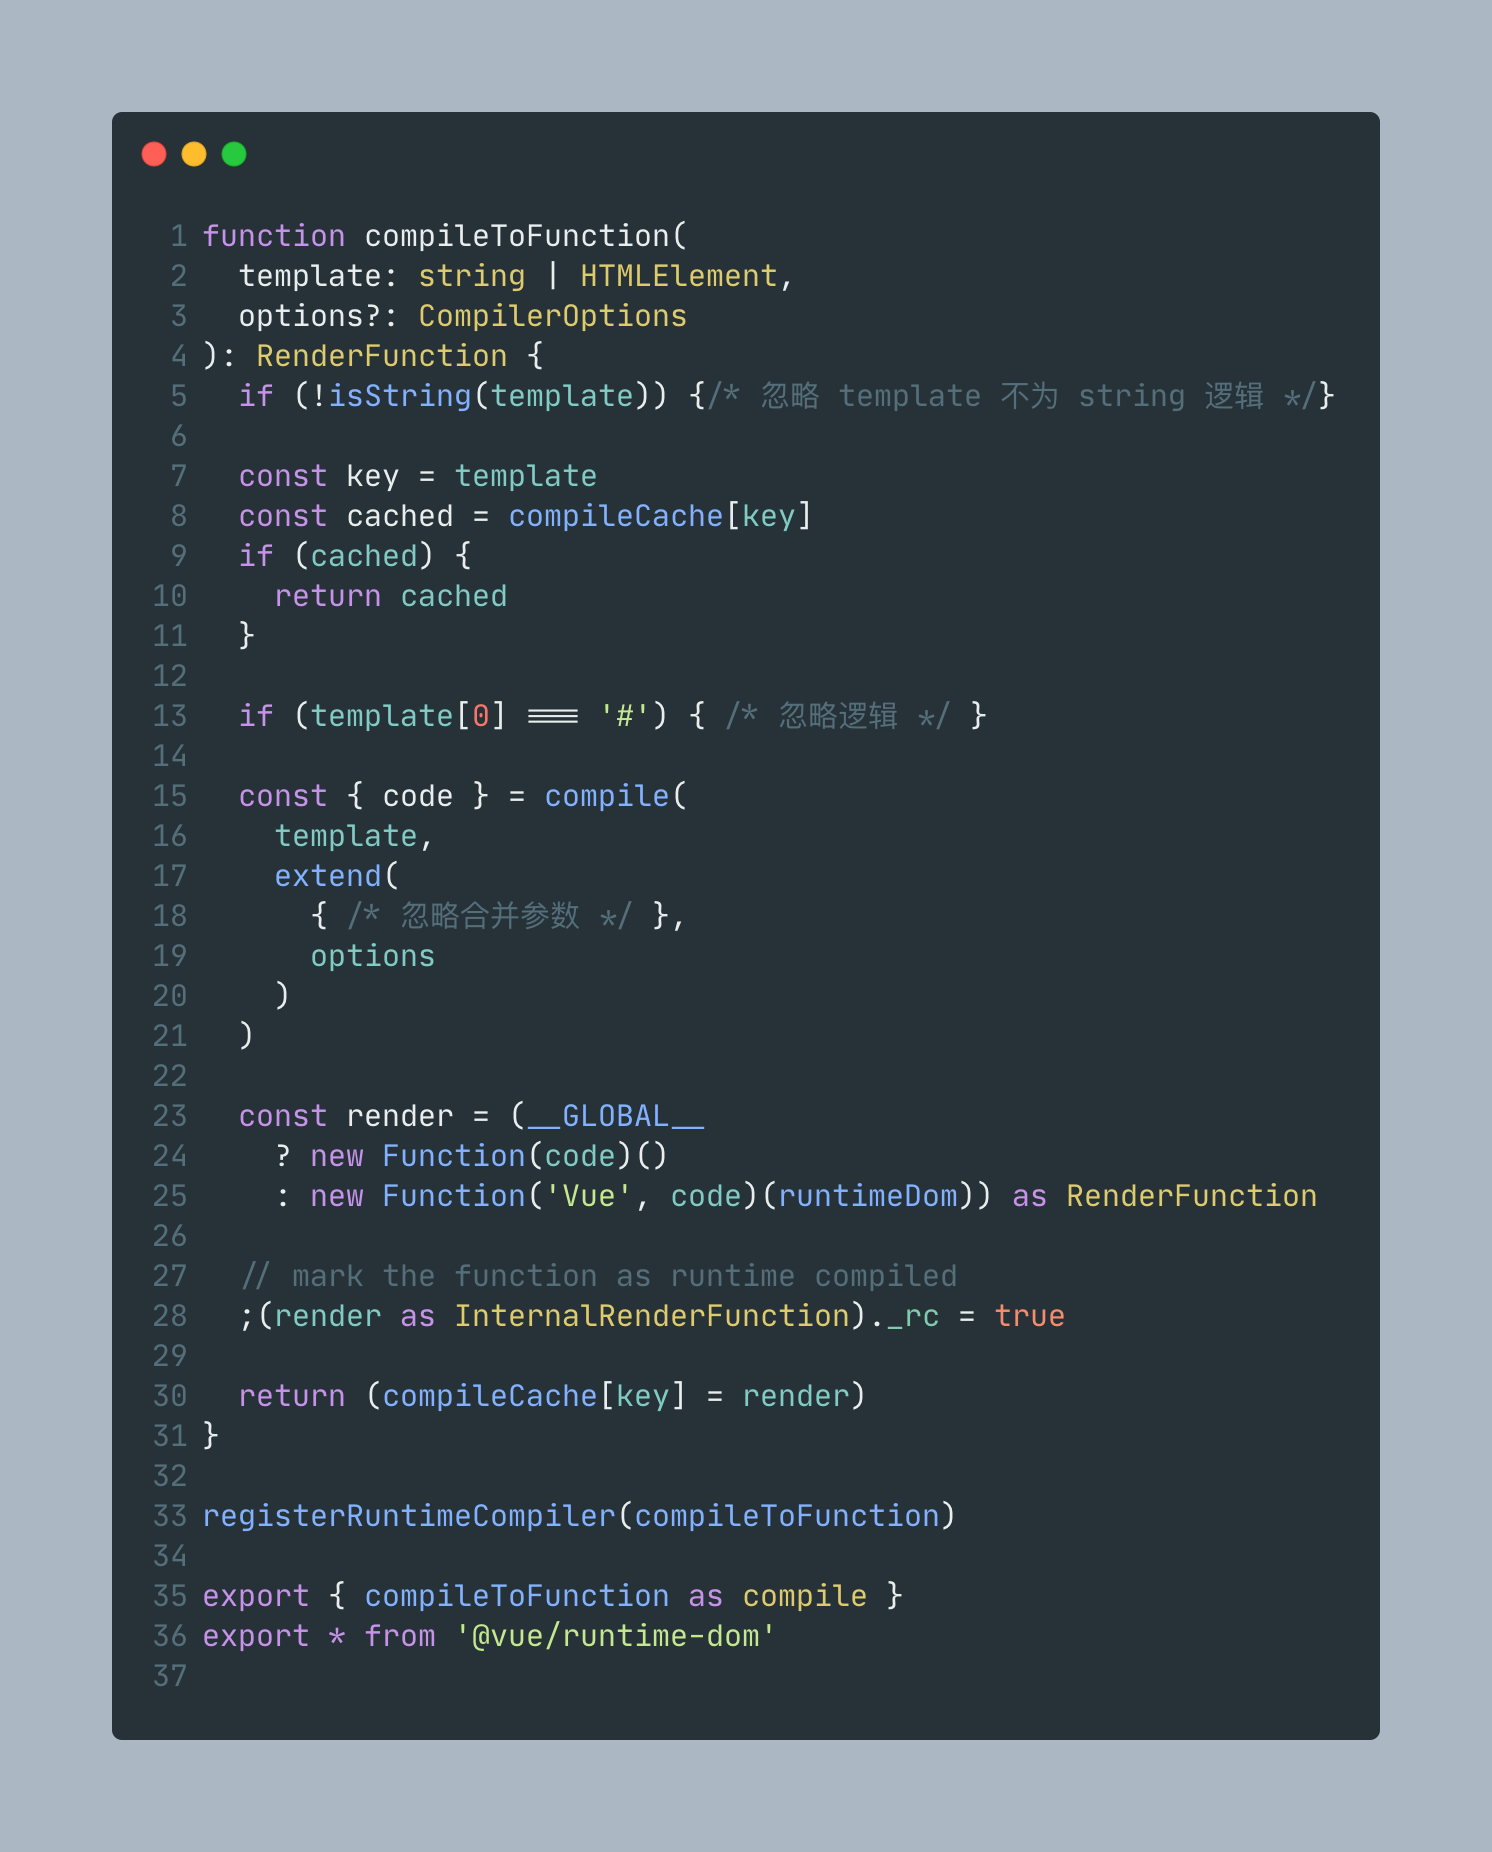
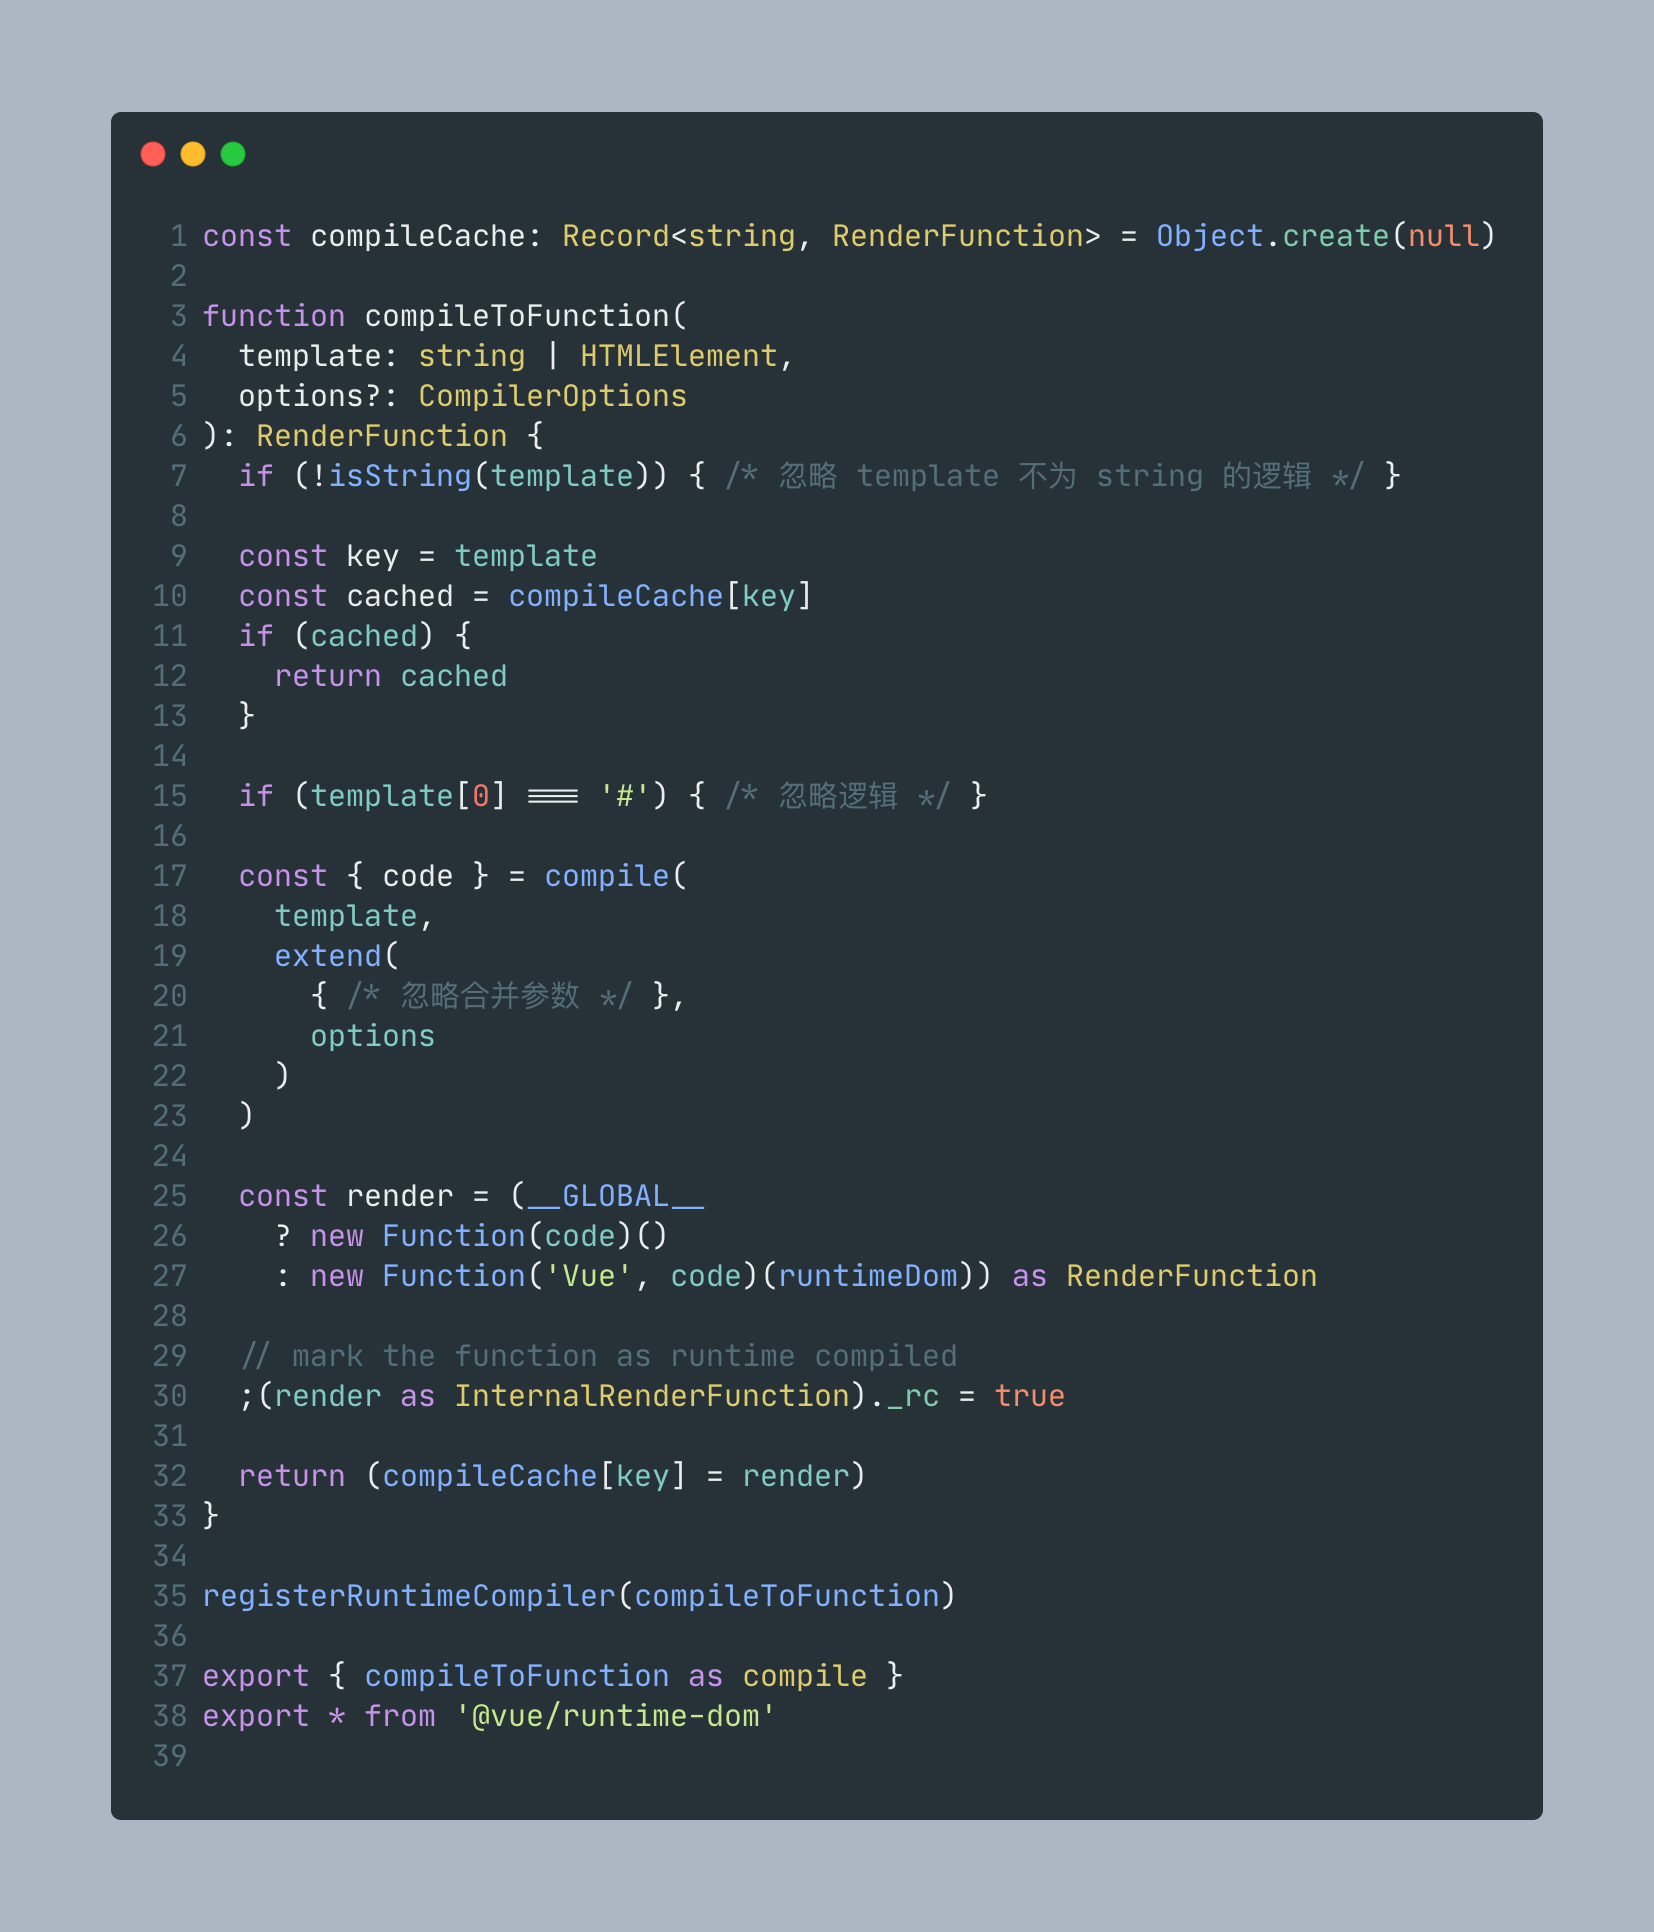
feat: vue3 编译器(一)

diff --git a/_posts/2021-04-18-Vue3源码解析 —— 编译器(一)入口.md b/_posts/2021-04-18-Vue3源码解析 —— 编译器(一)入口.md
@@ -1,0 +1,84 @@
+---
+layout: post
+title: Vue3源码解析 —— 编译器（一）入口
+categories: [前端, Vue]
+description: 带你解读 Vue3 源码，编译器入口篇
+keywords: Vue3, Vue源码, 编译器, 前端
+---
+
+Vue3 发布已经有一段时间了，最近也有机会在公司项目中用上了 Vue3 + TypeScript + Vite 的技术栈，所以闲暇之余抽空也在抽空阅读 Vue3 的源码。本着好记性不如烂笔头的想法，在阅读源码时顺便记录了一些笔记，也希望能争取写一些源码阅读笔记，帮助每个想看源码但可能存在困难的同学减少理解成本。
+
+
+
+Vue2.x 的源码我也有过一些简单的阅读，自 Vue3 重构后，Vue 项目的目录结构也发生了很大的变化，各个功能模块被分别放入了 `packages` 目录下，职责更加清晰，通过目录名就可以一目了然。今天将从 Vue 的入口文件开始，看看声明了一个 Vue 的单文件之后是如何被 `compile-core` 编译核心模块编译成渲染函数的。
+
+为了大家的阅读方便，以及控制文章篇幅，我会把阅读源码时不太需要在意的逻辑进行折叠，或者通过注释 `/* 忽略逻辑 */` 这样的标识进行忽略处理。
+
+我个人是不太喜欢在看源码分析文章时一上来就怼出一大段代码，这容易让没阅读的同学有点懵逼。所以这个系列的文章我会尽量对关键的代码画出一张流程图。目的还是一个，帮助大家降低理解成本，同时也让各位同学在下次自主阅读时有张流程图能参考。
+
+我们会先从一个 vue 文件创建的入口来开始我们的源码阅读， `packages/vue/index.ts` 。这个入口文件的代码比较简单，只有一个 `compileToFunction` 函数，但函数体内的内容却又比较关键，所以先看一张图，来理解这个函数体究竟完成了哪些事情。
+
+![compileEntryFlow](../assets/images/vue3-sourcecode/compile/flow1.png)
+
+在看完流程图之后，我们来对照代码一起看，我相信大部分同学在此时可能对下发图片中的代码一目了然了。
+
+![compileToFunction](../assets/images/vue3-sourcecode/compile/compileToFunction.png)
+
+直接跳过所有代码，看文件的末尾 35 行，调用了 registerRuntiomCompiler 函数，将 compileToFunction 函数作为参数传入，这行代码即对应流程图的起始，通过依赖注入的方式，将 compile 函数注入至 runtime 运行时中，依赖注入是一种比较巧妙的解耦方式，此时运行时再调用 compile 编译函数，就是在调用当前的 compileToFunction 函数了。
+
+再看代码中的第 17 行，调用了 compile-dom 库提供的 compile 函数，从返回值中解构出了 code 变量。这个就是编译器执行之后生成的编译结果，code 是编译结果的其中一个参数，是一个代码字符串。比如
+
+```vue
+<template>
+  <div>
+    Hello World
+  </div>
+</template>
+```
+
+这个简单的模板，在经过编译后，code 返回的字符串为 `const _Vue = Vue return function render(_ctx, _cache) {  with (_ctx) {    const { openBlock: _openBlock, createBlock: _createBlock } = _Vue     return (_openBlock(), _createBlock("div", null, "Hello World"))  } }` ，这个神奇的 compile 函数内部的奥妙在之后我会详细讲解。 
+
+在拿到这个这个代码字符串的结果后，我们再顺着代码往下看，第 25 行声明了一个 render 变量，并且将生成的代码字符串 code 作为参数传入了 new Function 构造函数。这就是流程图中的倒数第二步，生成了 render 函数。可以将我放在上面的 code 字符串格式化，能够发现 render 函数是一个柯里化的函数，返回了一个函数，函数内部通过 with 来扩展作用域链。
+
+而最后入口文件返回了 render 变量，并且顺手缓存了 render 函数。
+
+上方源码的第 1 行，我们看到入口文件创建了一个 `compileCache`  对象，用以缓存 `compileToFunction` 函数生成的 `render`  函数，将 template 参数作为缓存的 key， 并在 11 行的位置有一个 if 分支做缓存的判断，如果该模板之前被缓存过，则不再进行编译，直接返回缓存中的 render 函数，以此提高性能。
+
+至此 package/vue/index.ts 的入口文件就解读完了。相信大家也都看出来了，最有意思的部分就是调用 compile 函数编译出了代码字符串，所以接下来我将围绕 compile 函数来接着唠。compile 函数牵扯到 compile-dom 和 compile-core 两个模块，本篇文章我只会解读关键流程。细节分析的话会放在后续文章中。一起来看一下 compile 的运行流程：
+
+![compiler-flow](../assets/images/vue3-sourcecode/compile/flow2.png)
+
+compile 函数内部直接返回 baseCompile 函数的结果，而 baseCompile 函数在执行过程中会生成 AST 抽象语法树，并调用 transform 对 每个 AST 节点进行处理，例如转换vOn、v-if、v-for 等指令，最后将处理后的 AST 抽象语法树通过 generate 函数生成之前提及的代码字符串，并返回编译结果，至此 compile 函数执行完毕。明白了大体的流程后，接着来看源码。
+
+![compile](../assets/images/vue3-sourcecode/compile/compile.png)
+
+compile 函数的源码路径是 packages/compiler-dom/src/index.ts， 我们看到在 compile 的函数体内，直接 return 了 baseCompile 的处理结果。而 baseCompile 的源码路径是 packages/compiler-core/src/compile.ts 。为什么会有 baseCompile 这样的命名呢？因为 compile-core 是编译的核心模块，接受外部的参数来按照规则完成编译，而 compile-dom 是专门处理浏览器场景下的编译，在这个模块下导出的 compile 函数是入口文件真正接收的编译函数。而 compile-dom 中的 compile 函数相对 baseCompile 也是更高阶的一个编译器。例如当 Vue 在 weex 在 iOS 或者 Android 这些 Native App 中工作时，compile-dom 可能会被相关的移动端编译库来取代。
+
+顺着往下一起看一下 baseCompile 函数:
+
+![baseCompile](../assets/images/vue3-sourcecode/compile/baseCompile.png)
+
+
+
+先从函数声明中来看，baseCompile 接收 template 模板以及上层高阶编译器中处理过 options 编译选项，最终返回一个 CodegenResult 类型的编译结果。
+
+```typescript
+export interface CodegenResult {
+  code: string
+  preamble: string
+  ast: RootNode
+  map?: RawSourceMap
+}
+```
+
+通过 CodegenResult 的接口声明能清晰的看到返回结果中存在 code 代码字符串、处理后的 AST 抽象语法树，以及 sourceMap。
+
+看上方源码的第 12 行，判断 template 模板是否为字符串，如果是的话则会对字符串进行解析，否则直接将 template 作为 AST 。其实我们平时在写的单文件 vue 代码，都是以字符串的形式传递进去的。
+
+接下来源码是 16 行调用了 transform 函数，以及传入了指令转换、节点转换等工具函数，对由模板生成的 AST 进行转换。
+
+最终的 32 行位置，我们将转换好的 AST 传入 generate，生成 CodegenResult 类型的返回结果。
+
+在 compile-core 模块中，AST 解析、transform、codegen、compile、parse 这些函数都是一个单独的小模块，内部的实现都非常精妙，在编译器的后续文章中，会逐个进行介绍。
+
+本文通过从入口文件开始，对编译的大体流程进行解释，希望可以帮助大家在阅读编译器这个模块的代码时能有一个清晰的流程概念，配合流程图食用更香哟。
